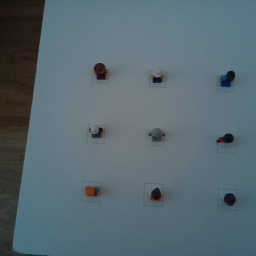
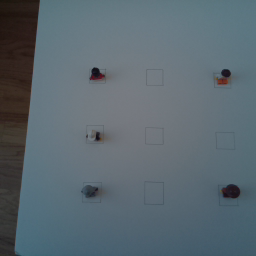
working demos for classroom application

diff --git a/Classroom/LiveCamTest.py b/Classroom/LiveCamTest.py
@@ -1,29 +1,102 @@
-from gpiozero import LED
-import time
 import sys
 sys.path.insert(0, '../Utils/')
 import PixelUtils as PU
 import ImageProcessingUtils as IPU
-import PiCamUtil
+import numpy as np
+import PiCamUtil as PCU
+import time
+from gpiozero import LED
 
+led = LED(15)
+led.off()
+#get image of empty array from png file
 empty = IPU.pngToGrayArray("Images/empty.png")
 
+#create a collection from demoConfig
 test = PU.PixelBlockSetCollection(9, 'demoConfig.csv')
-test.SetMaxAllowedDiffForEmpty(1100)
+test.SetMaxAllowedDiffForEmpty(2000)
 
-verbose = True
-led = LED(15)
+verbose = False
+
+#compare against image with single available spot
+
+def Populate2DGrid(rows, cols, PixelBlockEmpty):
+     grid = np.empty([rows, cols], dtype=int)
+     for i in range(0, rows):
+         for j in range(0, cols):
+             grid[i,j] = PixelBlockEmpty[i*rows + j]
+     print(grid)
+     return grid
+     
+def TopNeighborEmpty(i, j, grid, rows, cols):
+     if i == 0:
+          return True
+     if grid[i-1, j] == 0:
+          return False
+     else:
+          return True
+
+def BottomNeighborEmpty(i, j, grid, rows, cols):
+     if i == rows -1:
+          return True
+     if grid[i+1, j] == 0:
+          return False
+     else:
+          return True
+     
+def RightNeighborEmpty(i, j, grid, rows, cols):
+     if j == cols-1:
+          return True
+     if grid[i, j+1] == 0:
+          return False
+     else:
+          return True
+     
+def LeftNeighborEmpty(i, j, grid, rows, cols):
+     if j == 0:
+          return True
+     if grid[i, j-1] == 0:
+          return False
+     else:
+          return True
+
+def NeighborNonEmpty(i, j, grid, rows, cols):
+     violation = False
+     if LeftNeighborEmpty(i, j, grid, rows, cols) == False:
+          return True
+
+     if RightNeighborEmpty(i, j, grid, rows, cols) == False:
+          return True
+
+     if BottomNeighborEmpty(i, j, grid, rows, cols) == False:
+          return True
+     
+     if TopNeighborEmpty(i, j, grid, rows, cols) == False:
+          return True
+     return False
+
+def GetNumViolations(grid, rows, cols):
+     #first check the inner slots, the ones that have four neighobors
+     numViolations = 0
+     for i in range(0, rows):
+         for j in range(0, cols):
+              if grid[i,j] == 0 and NeighborNonEmpty(i, j, grid, rows, cols) == True:
+                numViolations = numViolations + 1
+     return numViolations
+
+rows = 3
+cols = 3
 
 while(True):
-    current = PiCamUtil.GetGrayscale2D("Images/current")
-    numEmpty = test.CompareImgs(empty, current, verbose)
-    print("Available spots ",numEmpty) 
+     current = PCU.GetGrayscale2D("Images/current") 
+     DeskEmpty = test.GetImageDiffs(empty, current)
+     print(DeskEmpty)
 
-    if numEmpty > 0:
-        print("Turning on the light")
-        led.on()
-        time.sleep(5)
-        led.off()
-    else:
-        led.off()
-
+     grid = Populate2DGrid(rows ,cols, DeskEmpty)
+     peopleAtRisk = GetNumViolations(grid, rows, cols)
+     print("People at risk", peopleAtRisk)
+     if peopleAtRisk == 0:
+          led.on()
+          time.sleep(5)
+     else:
+          led.off()

diff --git a/Classroom/pngTestLED.py b/Classroom/pngTestLED.py
@@ -1,32 +1,97 @@
 import sys
-from gpiozero import LED
 sys.path.insert(0, '../Utils/')
 import PixelUtils as PU
 import ImageProcessingUtils as IPU
+import numpy as np
+import PiCamUtil as PCU
+from gpiozero import LED
 
 led = LED(15)
 led.off()
 #get image of empty array from png file
-empty = IPU.pngToGrayArray("Images/big_empty.png")
+empty = IPU.pngToGrayArray("Images/empty.png")
 
 #create a collection from demoConfig
 test = PU.PixelBlockSetCollection(10, 'demoConfig.csv')
-test.SetMaxAllowedDiffForEmpty(500)
+test.SetMaxAllowedDiffForEmpty(2000)
 
 verbose = False
 
-#compare against original image
-numEmpty = test.CompareImgs(empty, empty, verbose)
-print("Num empty spots", numEmpty)
-if(numEmpty > 0):
-    led.on()
-
 #compare against image with single available spot
-current = IPU.pngToGrayArray("Images/OneSpot.png") 
-numEmpty = test.CompareImgs(empty, current, verbose)
-print("Num empty spots", numEmpty)
-if(numEmpty > 0):
-    led.on()
+current = IPU.pngToGrayArray("Images/4risk.png") 
+DeskEmpty = test.GetImageDiffs(empty, current)
+print(DeskEmpty)
 
-led.off()
+def Populate2DGrid(rows, cols, PixelBlockEmpty):
+     grid = np.empty([rows, cols], dtype=int)
+     for i in range(0, rows):
+         for j in range(0, cols):
+             grid[i,j] = PixelBlockEmpty[i*rows + j]
+     print(grid)
+     return grid
+     
+def TopNeighborEmpty(i, j, grid, rows, cols):
+     if i == 0:
+          return True
+     if grid[i-1, j] == 0:
+          return False
+     else:
+          return True
 
+def BottomNeighborEmpty(i, j, grid, rows, cols):
+     if i == rows -1:
+          return True
+     if grid[i+1, j] == 0:
+          return False
+     else:
+          return True
+     
+def RightNeighborEmpty(i, j, grid, rows, cols):
+     if j == cols-1:
+          return True
+     if grid[i, j+1] == 0:
+          return False
+     else:
+          return True
+     
+def LeftNeighborEmpty(i, j, grid, rows, cols):
+     if j == 0:
+          return True
+     if grid[i, j-1] == 0:
+          return False
+     else:
+          return True
+
+def NeighborNonEmpty(i, j, grid, rows, cols):
+     violation = False
+     if LeftNeighborEmpty(i, j, grid, rows, cols) == False:
+          return True
+
+     if RightNeighborEmpty(i, j, grid, rows, cols) == False:
+          return True
+
+     if BottomNeighborEmpty(i, j, grid, rows, cols) == False:
+          return True
+     
+     if TopNeighborEmpty(i, j, grid, rows, cols) == False:
+          return True
+     return False
+
+def GetNumViolations(grid, rows, cols):
+     #first check the inner slots, the ones that have four neighobors
+     numViolations = 0
+     for i in range(0, rows):
+         for j in range(0, cols):
+              if grid[i,j] == 0 and NeighborNonEmpty(i, j, grid, rows, cols) == True:
+                numViolations = numViolations + 1
+     return numViolations
+
+rows = 3
+cols = 3
+grid = Populate2DGrid(rows ,cols, DeskEmpty)
+peopleAtRisk = GetNumViolations(grid, rows, cols)
+print("People at risk", peopleAtRisk)
+if peopleAtRisk == 0:
+     led.on()
+else:
+     led.off()

diff --git a/Classroom/PngTest.py b/Classroom/PngTest.py
@@ -3,21 +3,19 @@ sys.path.insert(0, '../Utils/')
 import PixelUtils as PU
 import ImageProcessingUtils as IPU
 import numpy as np
+import PiCamUtil as PCU
 
 #get image of empty array from png file
 empty = IPU.pngToGrayArray("Images/empty.png")
 
 #create a collection from demoConfig
 test = PU.PixelBlockSetCollection(10, 'demoConfig.csv')
-test.SetMaxAllowedDiffForEmpty(1200)
+test.SetMaxAllowedDiffForEmpty(2000)
 
 verbose = False
 
-
-    
-
 #compare against image with single available spot
-current = IPU.pngToGrayArray("Images/current.png") 
+current = IPU.pngToGrayArray("Images/7risk.png") 
 DeskEmpty = test.GetImageDiffs(empty, current)
 print(DeskEmpty)
 
@@ -28,5 +26,65 @@ def Populate2DGrid(rows, cols, PixelBlockEmpty):
              grid[i,j] = PixelBlockEmpty[i*rows + j]
      print(grid)
      return grid
+     
+def TopNeighborEmpty(i, j, grid, rows, cols):
+     if i == 0:
+          return True
+     if grid[i-1, j] == 0:
+          return False
+     else:
+          return True
 
-Populate2DGrid(3,3, DeskEmpty)
+def BottomNeighborEmpty(i, j, grid, rows, cols):
+     if i == rows -1:
+          return True
+     if grid[i+1, j] == 0:
+          return False
+     else:
+          return True
+     
+def RightNeighborEmpty(i, j, grid, rows, cols):
+     if j == cols-1:
+          return True
+     if grid[i, j+1] == 0:
+          return False
+     else:
+          return True
+     
+def LeftNeighborEmpty(i, j, grid, rows, cols):
+     if j == 0:
+          return True
+     if grid[i, j-1] == 0:
+          return False
+     else:
+          return True
+
+def NeighborNonEmpty(i, j, grid, rows, cols):
+     violation = False
+     if LeftNeighborEmpty(i, j, grid, rows, cols) == False:
+          return True
+
+     if RightNeighborEmpty(i, j, grid, rows, cols) == False:
+          return True
+
+     if BottomNeighborEmpty(i, j, grid, rows, cols) == False:
+          return True
+     
+     if TopNeighborEmpty(i, j, grid, rows, cols) == False:
+          return True
+     return False
+
+def GetNumViolations(grid, rows, cols):
+     #first check the inner slots, the ones that have four neighobors
+     numViolations = 0
+     for i in range(0, rows):
+         for j in range(0, cols):
+              if grid[i,j] == 0 and NeighborNonEmpty(i, j, grid, rows, cols) == True:
+                numViolations = numViolations + 1
+     return numViolations
+
+rows = 3
+cols = 3
+grid = Populate2DGrid(rows ,cols, DeskEmpty)
+peopleAtRisk = GetNumViolations(grid, rows, cols)
+print("People at risk", peopleAtRisk)

diff --git a/Classroom/ConfigTest.py b/Classroom/ConfigTest.py
@@ -2,9 +2,11 @@ import sys
 sys.path.insert(0, '../Utils/')
 import PixelUtils as PU
 import ImageProcessingUtils as IPU
+import PiCamUtil as PCU
 
 #given a png image, create 2D gray-scale array   
-empty = IPU.pngToGrayArray("Images/empty.png")      
+#empty = IPU.pngToGrayArray("Images/empty")      
+empty = PCU.GetGrayscale2D("Images/empty.png")
 #create a collection of pixel sets, with each bound on the coordinates specified by demoConfig.csv
 test = PU.PixelBlockSetCollection(9, "demoConfig.csv") 
 #overlay the bounds of the pixel blocks on the provided 2D gray-scale array

diff --git a/Utils/PixelUtils.py b/Utils/PixelUtils.py
@@ -152,7 +152,7 @@ class PixelBlockSetCollection:
                spot_diffs = np.absolute(spot_diffs)
         
                total_pixel_diff = np.sum(spot_diffs)
-                                
+               print("Pixel diff", total_pixel_diff)                 
                if(total_pixel_diff < self.threshold):
                     pixelBlockStatus = 1
                else:
